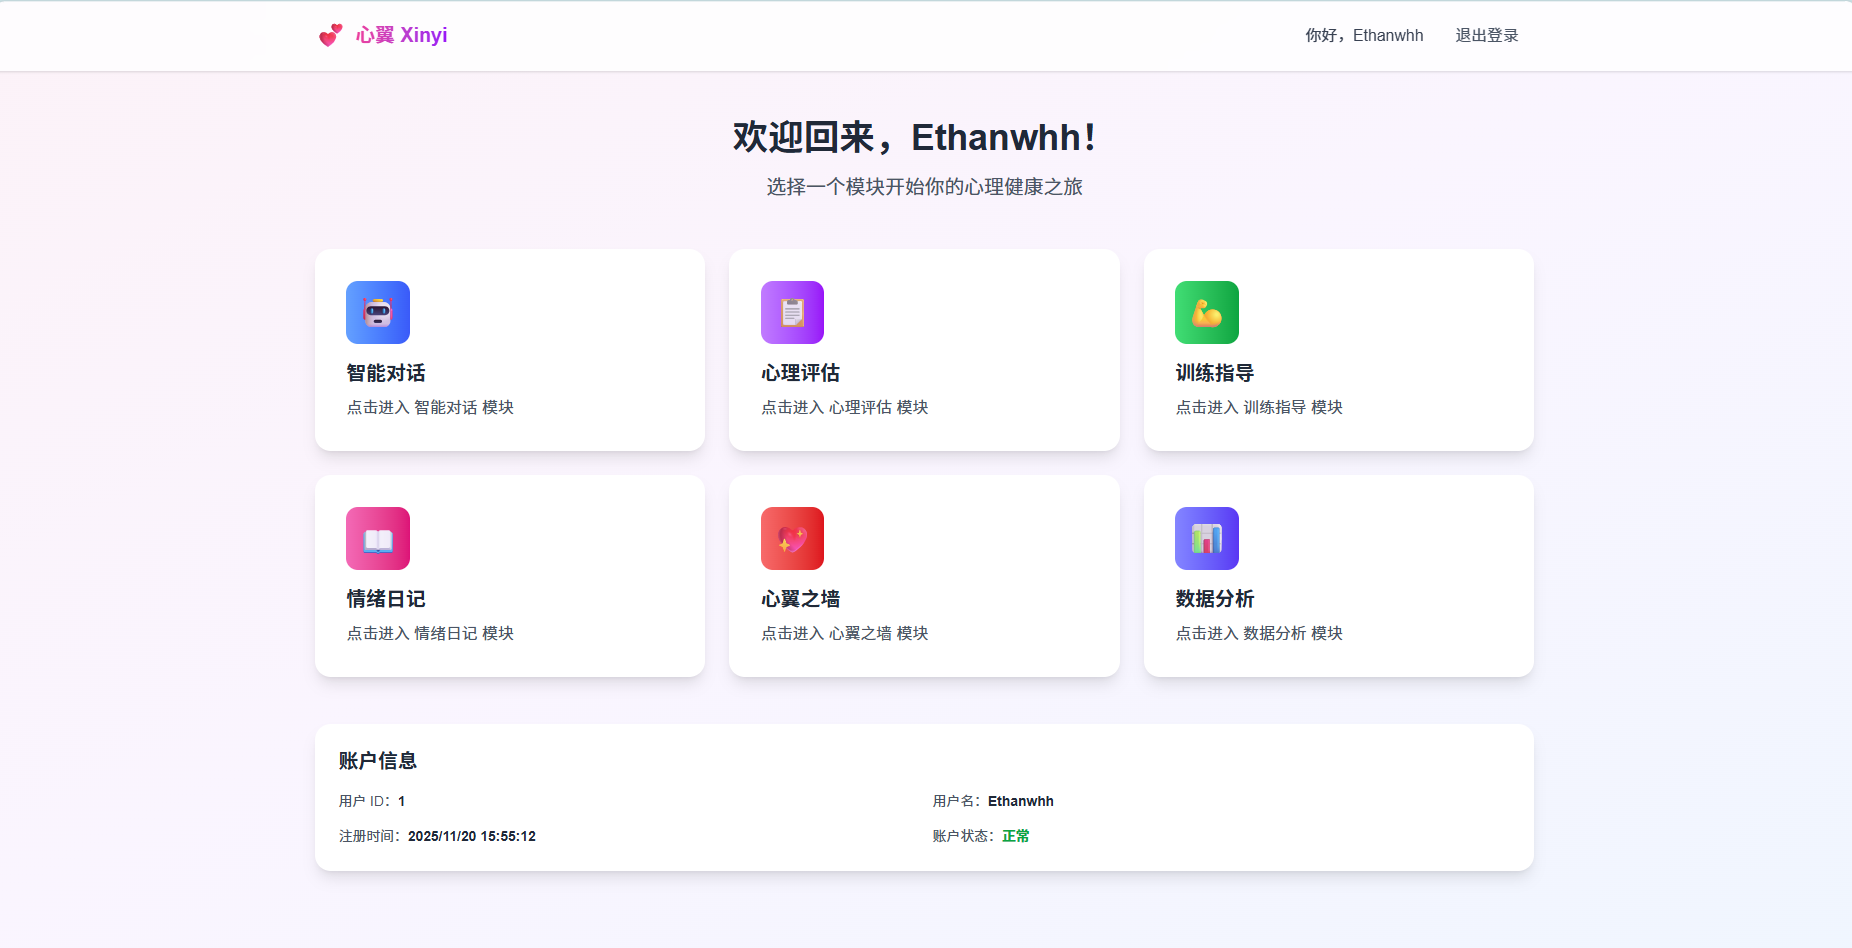
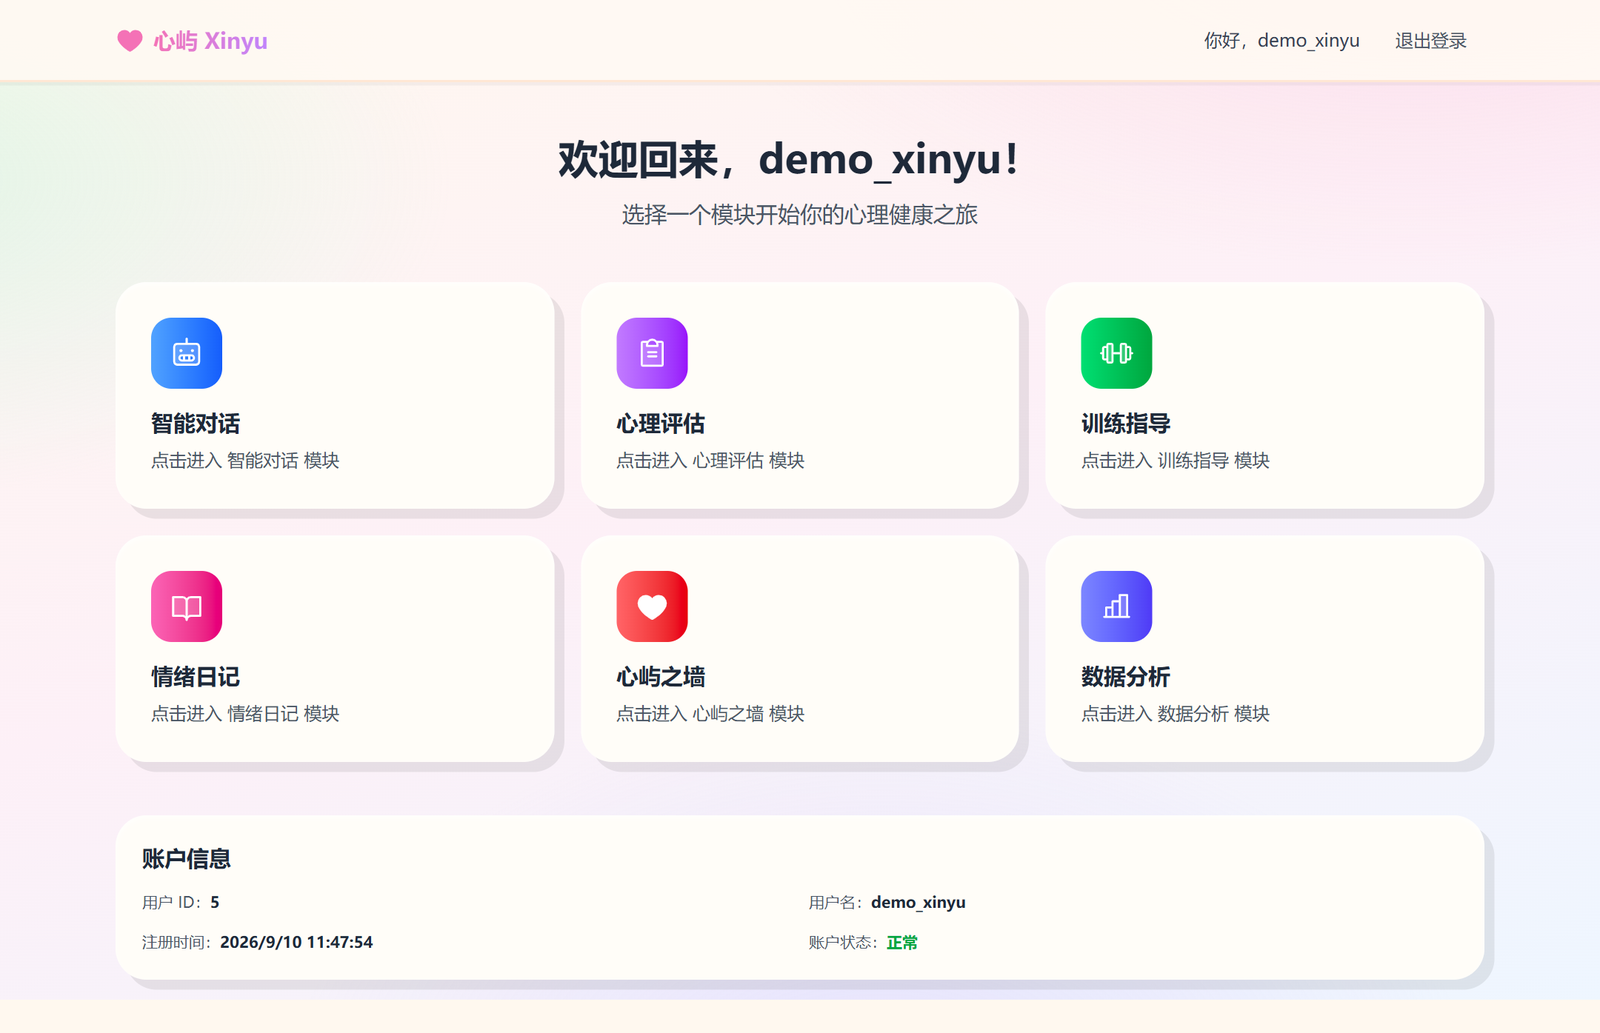
docs: 使用心屿新版界面截图更新 README
- 重拍全部 11 张功能截图（心屿品牌、Clay 风格、Phosphor 图标）；
- 修正 README 图片为相对路径，GitHub 可正常渲染；
- 仓库链接指向 happy2377/xinyu。

diff --git a/README.md b/README.md
@@ -6,7 +6,7 @@
 
 <div align="center">
 
-[![心屿 Logo](https://img.shields.io/badge/心屿-AI心理健康平台-blue?style=for-the-badge)](https://github.com/Ethanwhh/xinyu)
+[![心屿 Logo](https://img.shields.io/badge/心屿-AI心理健康平台-blue?style=for-the-badge)](https://github.com/happy2377/xinyu)
 
 [![License](https://img.shields.io/badge/license-MIT-green.svg)](LICENSE)
 [![TypeScript](https://img.shields.io/badge/TypeScript-5.0-blue)](https://www.typescriptlang.org/)
@@ -232,7 +232,7 @@ SQLite 数据库（本地存储）
 #### 1. 克隆项目
 
 ```bash
-git clone https://github.com/Ethanwhh/xinyu.git
+git clone https://github.com/happy2377/xinyu.git
 cd xinyu
 ```
 
@@ -324,41 +324,41 @@ npm start       # 启动生产服务器
 
 ### 心屿介绍 
 > 项目简介 + 核心功能 + 设计理念
-![项目简介](/frontend/public/introduction1.png)
-![核心功能](/frontend/public/introduction2.png)
-![设计理念](/frontend/public/introduction3.png)
+![项目简介](frontend/public/introduction1.png)
+![核心功能](frontend/public/introduction2.png)
+![设计理念](frontend/public/introduction3.png)
 
 ### 用户登录
 > 新用户进行注册 + 老用户进行登录
-![用户登录](/frontend/public/login.png)
+![用户登录](frontend/public/login.png)
 
 ### 首页 
 > 统一的功能入口，6 大模块卡片式导航
-![首页](/frontend/public/dashboard.png)
+![首页](frontend/public/dashboard.png)
 
 ### 智能对话
 > 多轮对话 + 情绪感知 + 专业支持
-![智能对话](/frontend/public/chat.png)
+![智能对话](frontend/public/chat.png)
 
 ### 心理评估
 > 标准量表 + 智能解读 + 趋势追踪
-![心理评估](/frontend/public/assessment.png)
+![心理评估](frontend/public/assessment.png)
 
 ### 训练指导
 > 6 大训练类型 + 详细步骤 + 训练记录
-![训练指导](/frontend/public/training.png)
+![训练指导](frontend/public/training.png)
 
 ### 情绪日记
 > 智能模板引导 + AI 情绪分析 + 历史记录管理
-![情绪日记](/frontend/public/diary.png)
+![情绪日记](frontend/public/diary.png)
 
 ### 心屿之墙
 > 可视化日历 + 游戏化机制 + 成就徽章
-![心屿之墙](/frontend/public/growth.png)
+![心屿之墙](frontend/public/growth.png)
 
 ### 数据分析
 > 统计看板 + 情绪分布 + 双向趋势图
-![数据分析](/frontend/public/analytics.png)
+![数据分析](frontend/public/analytics.png)
 
 ## 📖 技术文档
 
@@ -781,6 +781,6 @@ npm start       # 启动生产服务器
 
 **💕 心屿 · 关注心理健康，拥抱美好生活**
 
-[![Star History Chart](https://api.star-history.com/svg?repos=Ethanwhh/xinyu&type=Date)](https://star-history.com/Ethanwhh/xinyu&Date)
+[![Star History Chart](https://api.star-history.com/svg?repos=happy2377/xinyu&type=Date)](https://star-history.com/happy2377/xinyu&Date)
 
 </div>
